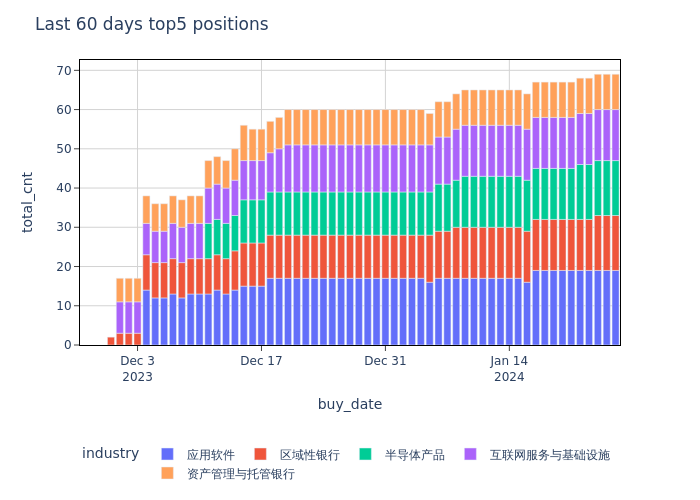
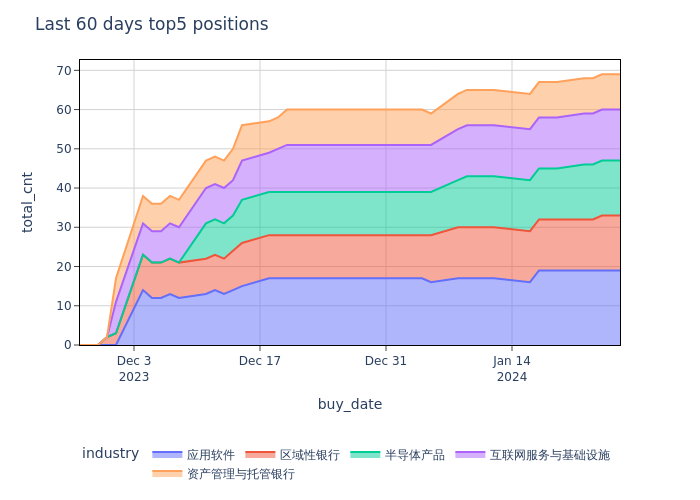
update

diff --git a/finance/utility/StockProposal.py b/finance/utility/StockProposal.py
@@ -22,6 +22,8 @@ from email.mime.text import MIMEText
 import gc
 import matplotlib.colors as mcolors
 
+from utility.ToolKit import ToolKit
+
 
 mpl.rcParams["font.sans-serif"] = ["SimHei"]  # 用来正常显示中文标签
 
@@ -244,6 +246,24 @@ class StockProposal:
                 start=start_date.strftime("%Y-%m-%d"), end=end_date, freq="D"
             )
             df_timeseries = pd.DataFrame({"buy_date": date_range})
+            # 将日期转换为字符串格式 'YYYYMMDD'
+            df_timeseries["trade_date"] = df_timeseries["buy_date"].dt.strftime(
+                "%Y%m%d"
+            )
+
+            # 假设您的ToolKit类已经定义好了，并且可以检查交易日期
+            toolkit = ToolKit("identify trade date")
+
+            # 根据市场类型过滤非交易日
+            if self.market == "us":
+                df_timeseries = df_timeseries[
+                    df_timeseries["trade_date"].apply(toolkit.is_us_trade_date)
+                ]
+            elif self.market == "cn":
+                df_timeseries = df_timeseries[
+                    df_timeseries["trade_date"].apply(toolkit.is_cn_trade_date)
+                ]
+
             df_timeseries_spark = spark.createDataFrame(
                 df_timeseries.astype({"buy_date": "string"})
             )
@@ -536,7 +556,14 @@ class StockProposal:
                 """
             )
             dfdata5 = sparkdata5.toPandas()
-            fig = px.bar(dfdata5, x="buy_date", y="total_cnt", color="industry")
+
+            fig = px.area(
+                dfdata5,
+                x="buy_date",
+                y="total_cnt",
+                color="industry",
+                line_group="industry",
+            )
             fig.update_xaxes(
                 mirror=True,
                 ticks="outside",
@@ -636,11 +663,12 @@ class StockProposal:
                 """
             )
             dfdata6 = sparkdata6.toPandas()
-            fig = px.bar(
+            fig = px.area(
                 dfdata6,
                 x="buy_date",
                 y="total_cnt",
                 color="industry",
+                line_group="industry",
             )
             fig.update_xaxes(
                 mirror=True,

diff --git a/finance/test.py b/finance/test.py
@@ -236,7 +236,7 @@ def exec_btstrategy(date):
 # 主程序入口
 if __name__ == "__main__":
     """美股交易日期 utc-4"""
-    trade_date = ToolKit("get latest trade date").get_us_latest_trade_date(0)
+    trade_date = ToolKit("get latest trade date").get_us_latest_trade_date(1)
 
     """ 非交易日程序终止运行 """
     if ToolKit("判断当天是否交易日").is_us_trade_date(trade_date):
